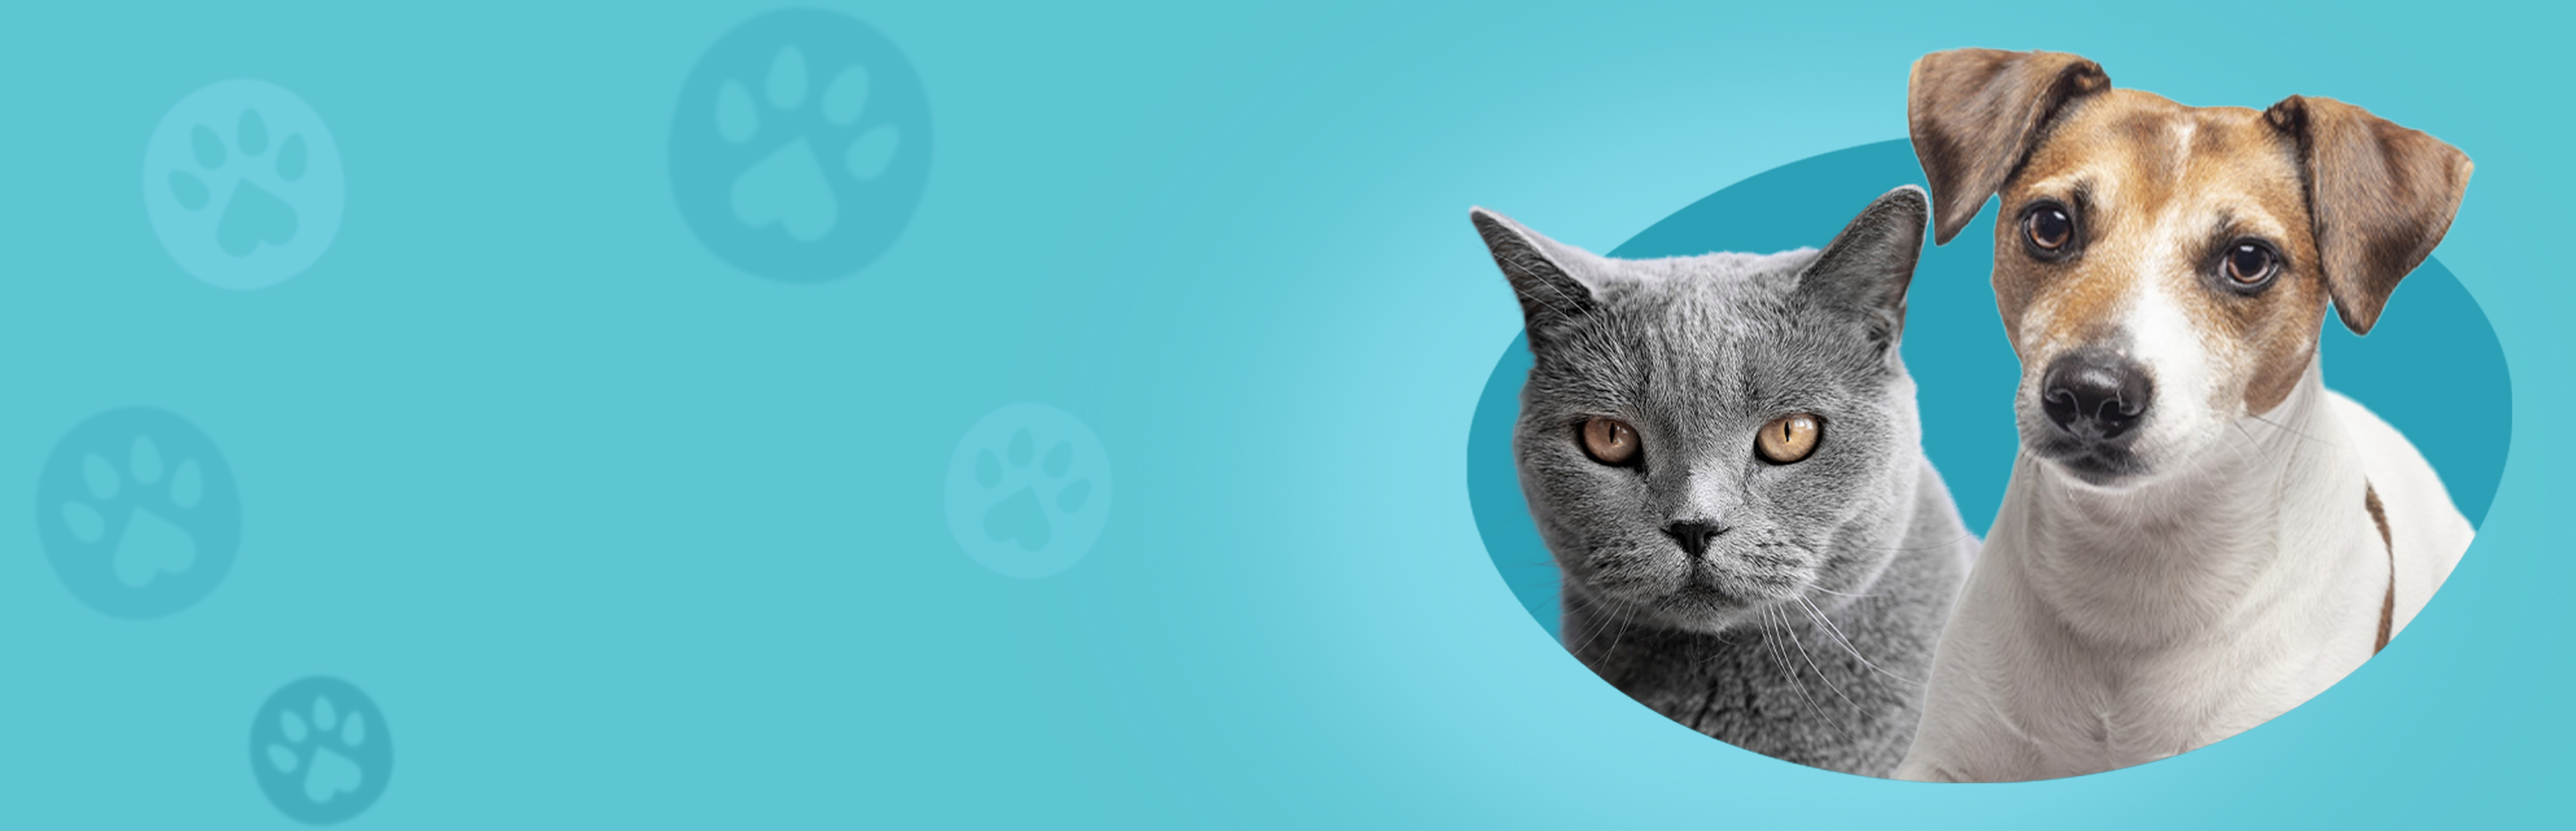
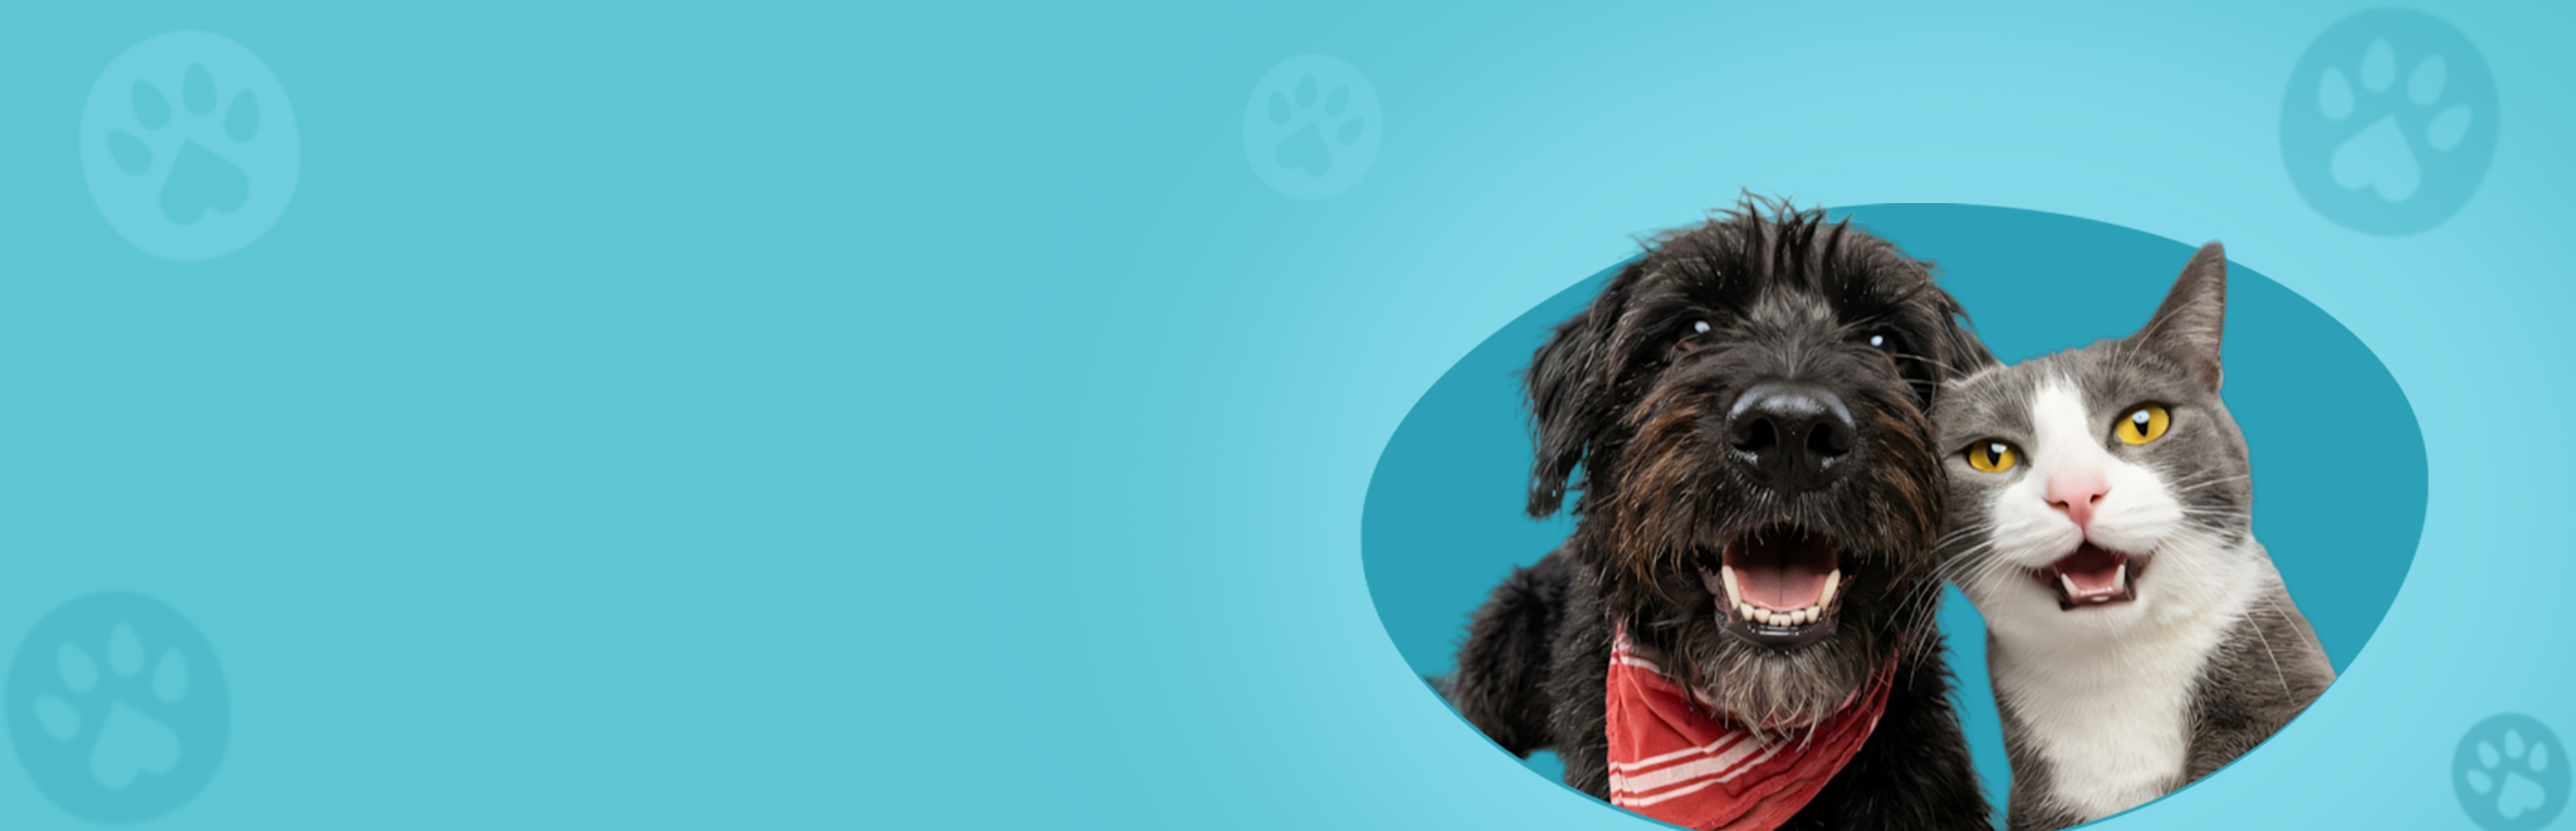
Mejora de sliders mas cambio de la tecnologia que los muestran

diff --git a/app/src/components/Slider/SliderPet.tsx b/app/src/components/Slider/SliderPet.tsx
@@ -1,6 +1,6 @@
 'use client'
 
-import React, { useEffect, useMemo, useState } from 'react'
+import React, { useEffect, useState } from 'react'
 import Link from 'next/link'
 
 type SliderSuffix =
@@ -15,8 +15,33 @@ type SliderSuffix =
   | 'uhd'
 
 type LegacySuffix = '243' | '720' | '1080' | '1920' | '2k' | '4k'
-
 type SlideId = 1 | 2 | 3
+
+type SlideContent = {
+  id: SlideId
+  subtitle: string
+  title: string
+}
+
+const AUTOPLAY_DELAY_MS = 7000
+
+const slides: SlideContent[] = [
+  {
+    id: 1,
+    subtitle: '¡Oferta! Hasta 50% de descuento',
+    title: 'La tienda perfecta para tu mascota',
+  },
+  {
+    id: 2,
+    subtitle: '¡Oferta! Hasta 50% de descuento',
+    title: 'Alimenta el apetito de tu mascota',
+  },
+  {
+    id: 3,
+    subtitle: '¡Oferta! Hasta 50% de descuento',
+    title: 'Alimenta el apetito de tu mascota',
+  },
+]
 
 const legacyFallbackBySuffix: Record<SliderSuffix, LegacySuffix[]> = {
   'mobile-xs': ['243', '720'],
@@ -42,19 +67,24 @@ const sourceOrder: Array<{ media?: string; suffix: SliderSuffix }> = [
   { suffix: 'mobile-xs' },
 ]
 
-const buildCandidateSources = (slide: SlideId, suffix: SliderSuffix) => {
-  return Array.from(
+const buildCandidateSources = (slide: SlideId, suffix: SliderSuffix) =>
+  Array.from(
     new Set([
       `/images/slider/slade${slide}-${suffix}.jpg`,
       ...legacyFallbackBySuffix[suffix].map((legacy) => `/images/slider/slade${slide}-${legacy}.jpg`),
     ]),
   )
-}
 
-const buildSourceSet = (slide: SlideId, suffix: SliderSuffix) => buildCandidateSources(slide, suffix).join(', ')
-
-const SliderImage = ({ alt, slide, priority }: { alt: string; slide: SlideId; priority?: boolean }) => {
-  const fallbackCandidates = useMemo(() => buildCandidateSources(slide, 'desktop'), [slide])
+const HeroPicture = ({
+  alt,
+  slide,
+  priority,
+}: {
+  alt: string
+  slide: SlideId
+  priority?: boolean
+}) => {
+  const fallbackCandidates = buildCandidateSources(slide, 'desktop')
   const [fallbackIndex, setFallbackIndex] = useState(0)
 
   useEffect(() => {
@@ -69,7 +99,7 @@ const SliderImage = ({ alt, slide, priority }: { alt: string; slide: SlideId; pr
         <source
           key={`${slide}-${suffix}`}
           media={media}
-          srcSet={buildSourceSet(slide, suffix)}
+          srcSet={`/images/slider/slade${slide}-${suffix}.jpg`}
         />
       ))}
       <img
@@ -81,42 +111,37 @@ const SliderImage = ({ alt, slide, priority }: { alt: string; slide: SlideId; pr
         onError={() => {
           setFallbackIndex((prev) => (prev >= fallbackCandidates.length - 1 ? prev : prev + 1))
         }}
-        className="absolute left-0 top-0 h-full w-full object-cover object-right sm:object-center"
+        className="absolute inset-0 h-full w-full object-contain object-center"
       />
     </picture>
   )
 }
 
-const SliderSlideContent = ({ slide, priority }: { slide: SlideId; priority?: boolean }) => {
-  const content = {
-    1: {
-      subtitle: '¡Oferta! Hasta 50% de descuento',
-      title: 'La tienda perfecta para tu mascota',
-    },
-    2: {
-      subtitle: '¡Oferta! Hasta 50% de descuento',
-      title: 'Alimenta el apetito de tu mascota',
-    },
-    3: {
-      subtitle: '¡Oferta! Hasta 50% de descuento',
-      title: 'Alimenta el apetito de tu mascota',
-    },
-  }[slide]
-
+const SliderSlideContent = ({
+  slide,
+  priority,
+}: {
+  slide: SlideContent
+  priority?: boolean
+}) => {
   return (
-    <div className="slider-item h-full w-full relative overflow-hidden">
-      <SliderImage alt={`bg-pet1-${slide}`} slide={slide} priority={priority} />
-      <div className="container w-full h-full flex items-center relative">
-        <div className="text-content sm:w-1/2 w-full max-w-[720px] text-white drop-shadow-[0_2px_10px_rgba(0,0,0,0.5)] px-4">
-          <div className="text-sub-display slider-text-sub normal-case">
-            {content.subtitle}
-          </div>
-          <div className="text-display slider-text-display md:mt-5 mt-2 normal-case">
-            {content.title}
-          </div>
+    <div className="slider-item relative h-full w-full overflow-hidden">
+      <HeroPicture
+        alt={`Slide principal ${slide.id} de ParaMascotasEC`}
+        slide={slide.id}
+        priority={priority}
+      />
+      <div className="container relative z-[1] flex h-full w-full items-center">
+        <div className="w-full max-w-[760px] px-4 text-white drop-shadow-[0_2px_18px_rgba(0,0,0,0.35)] sm:w-[58%]">
+          <p className="text-sub-display slider-text-sub normal-case">
+            {slide.subtitle}
+          </p>
+          <h1 className="text-display slider-text-display mt-2 normal-case md:mt-5">
+            {slide.title}
+          </h1>
           <Link
             href="/shop/breadcrumb1"
-            className="button-main md:mt-8 mt-3 normal-case bg-[var(--blue)] text-white hover:bg-[var(--bluesecondary)] hover:text-white"
+            className="button-main mt-4 inline-flex normal-case bg-[var(--blue)] text-white hover:bg-[var(--bluesecondary)] hover:text-white md:mt-8"
           >
             Compra ahora
           </Link>
@@ -127,51 +152,124 @@ const SliderSlideContent = ({ slide, priority }: { slide: SlideId; priority?: bo
 }
 
 const SliderPet = () => {
-  const [activeSlide, setActiveSlide] = useState(0)
+  const [selectedIndex, setSelectedIndex] = useState(0)
+  const [isPaused, setIsPaused] = useState(false)
+  const [prefersReducedMotion, setPrefersReducedMotion] = useState(false)
+  const [touchStartX, setTouchStartX] = useState<number | null>(null)
+  const [touchCurrentX, setTouchCurrentX] = useState<number | null>(null)
 
   useEffect(() => {
-    const timer = window.setInterval(() => {
-      setActiveSlide((prev) => (prev + 1) % 3)
-    }, 7000)
+    if (typeof window === 'undefined') return
 
-    return () => window.clearInterval(timer)
+    const mediaQuery = window.matchMedia('(prefers-reduced-motion: reduce)')
+    const syncPreference = () => setPrefersReducedMotion(mediaQuery.matches)
+
+    syncPreference()
+    mediaQuery.addEventListener('change', syncPreference)
+
+    return () => mediaQuery.removeEventListener('change', syncPreference)
   }, [])
 
+  const goToSlide = (index: number) => {
+    const normalizedIndex = (index + slides.length) % slides.length
+    setSelectedIndex(normalizedIndex)
+  }
+
+  const goToPrev = () => goToSlide(selectedIndex - 1)
+  const goToNext = () => goToSlide(selectedIndex + 1)
+
+  useEffect(() => {
+    if (isPaused || prefersReducedMotion) return
+
+    const autoplay = window.setInterval(() => {
+      if (document.hidden) return
+      setSelectedIndex((prev) => (prev + 1) % slides.length)
+    }, AUTOPLAY_DELAY_MS)
+
+    return () => window.clearInterval(autoplay)
+  }, [isPaused, prefersReducedMotion])
+
+  const handleTouchStart = (event: React.TouchEvent<HTMLDivElement>) => {
+    const point = event.touches[0]
+    setTouchStartX(point.clientX)
+    setTouchCurrentX(point.clientX)
+  }
+
+  const handleTouchMove = (event: React.TouchEvent<HTMLDivElement>) => {
+    if (touchStartX === null) return
+    setTouchCurrentX(event.touches[0].clientX)
+  }
+
+  const handleTouchEnd = () => {
+    if (touchStartX === null || touchCurrentX === null) {
+      setTouchStartX(null)
+      setTouchCurrentX(null)
+      return
+    }
+
+    const deltaX = touchStartX - touchCurrentX
+    const swipeThreshold = 48
+
+    if (deltaX > swipeThreshold) goToNext()
+    if (deltaX < -swipeThreshold) goToPrev()
+
+    setTouchStartX(null)
+    setTouchCurrentX(null)
+  }
+
   return (
-    <div className="slider-block style-one w-full md:pb-0 pb-0 overflow-hidden slider-height">
-      <div className="slider-main relative h-full w-full overflow-hidden">
+    <section
+      className="slider-block style-one pet-hero-height mt-2 w-full overflow-hidden md:mt-3"
+      aria-roledescription="carousel"
+      aria-label="Promociones principales"
+      onMouseEnter={() => setIsPaused(true)}
+      onMouseLeave={() => setIsPaused(false)}
+      onFocusCapture={() => setIsPaused(true)}
+      onBlurCapture={() => setIsPaused(false)}
+    >
+      <div className="slider-main relative h-full w-full">
         <div
-          className="flex h-full w-full transition-transform duration-700 ease-out"
-          style={{ transform: `translate3d(-${activeSlide * 100}%, 0, 0)` }}
+          className="h-full overflow-hidden"
+          onTouchStart={handleTouchStart}
+          onTouchMove={handleTouchMove}
+          onTouchEnd={handleTouchEnd}
         >
-          <div className="h-full w-full shrink-0">
-            <SliderSlideContent slide={1} priority />
-          </div>
-          <div className="h-full w-full shrink-0">
-            <SliderSlideContent slide={2} />
-          </div>
-          <div className="h-full w-full shrink-0">
-            <SliderSlideContent slide={3} />
+          <div
+            className="flex h-full transition-transform duration-500 ease-out will-change-transform touch-pan-y"
+            style={{ transform: `translate3d(-${selectedIndex * 100}%, 0, 0)` }}
+          >
+            {slides.map((slide, index) => (
+              <div
+                key={slide.id}
+                className="relative h-full min-w-0 flex-[0_0_100%]"
+                aria-hidden={selectedIndex !== index}
+              >
+                <SliderSlideContent slide={slide} priority={index === 0} />
+              </div>
+            ))}
           </div>
         </div>
 
-        <div className="pointer-events-none absolute inset-x-0 bottom-5 z-10 flex items-center justify-center gap-3">
-          {[0, 1, 2].map((index) => (
-            <button
-              key={index}
-              type="button"
-              aria-label={`Ir al slide ${index + 1}`}
-              onClick={() => setActiveSlide(index)}
-              className={`pointer-events-auto h-3.5 w-3.5 rounded-full border transition-all duration-300 ${
-                activeSlide === index
-                  ? 'border-black bg-black shadow-[0_0_0_3px_rgba(255,255,255,0.55)]'
-                  : 'border-black bg-white/70 hover:bg-white'
-              }`}
-            />
-          ))}
+        <div className="pointer-events-none absolute inset-x-0 bottom-4 z-10 flex items-center justify-center px-4 md:bottom-6 md:px-6">
+          <div className="pointer-events-auto mx-auto flex items-center justify-center gap-3 rounded-full bg-white/18 px-3 py-2 backdrop-blur-sm">
+            {slides.map((slide, index) => (
+              <button
+                key={slide.id}
+                type="button"
+                aria-label={`Ir al slide ${index + 1}`}
+                aria-pressed={selectedIndex === index}
+                onClick={() => goToSlide(index)}
+                className={`h-3 w-3 rounded-full border transition-all duration-300 ${
+                  selectedIndex === index
+                    ? 'scale-110 border-white bg-white shadow-[0_0_0_4px_rgba(255,255,255,0.2)]'
+                    : 'border-white/75 bg-white/45 hover:bg-white/75'
+                }`}
+              />
+            ))}
+          </div>
         </div>
       </div>
-    </div>
+    </section>
   )
 }
 

diff --git a/app/src/app/homepages/pet/page.tsx b/app/src/app/homepages/pet/page.tsx
@@ -10,7 +10,6 @@ import Banner2 from '@/components/Pet/Banner2'
 import FeatureProduct from '@/components/Pet/FeatureProduct'
 import Benefit from '@/components/Pet/Benefit'
 import Instagram from '@/components/Pet/Instagram'
-import ScrollToTopOnMount from '@/components/ScrollToTopOnMount'
 import Brand from '@/components/Pet/Brand'
 import Footer from '@/components/Footer/Footer'
 import ModalNewsletter from '@/components/Modal/ModalNewsletter'
@@ -22,7 +21,6 @@ export default async function HomePet() {
 
     return (
         <>
-            <ScrollToTopOnMount />
             <TopNavOne props="style-one bg-black" slogan='New customers save 10% with the code GET102222' />
             <div id="header" className='relative w-full style-pet'>
                 <MenuPet searchProducts={products} />

diff --git a/app/src/tenants/paramascotasec.com/Home.tsx b/app/src/tenants/paramascotasec.com/Home.tsx
@@ -3,7 +3,6 @@ import dynamic from 'next/dynamic'
 import MenuPet from '@/components/Header/Menu/MenuPet'
 import SliderPet from '@/components/Slider/SliderPet'
 import Footer from '@/components/Footer/Footer'
-import ScrollToTopOnMount from '@/components/ScrollToTopOnMount'
 import { ProductType } from '@/type/ProductType'
 
 const Collection = dynamic(() => import('@/components/Pet/Collection'))
@@ -21,7 +20,6 @@ const ParamascotasecHome = ({
 }) => {
   return (
     <>
-      <ScrollToTopOnMount />
       <div id="header" className="relative w-full style-pet">
         <MenuPet searchProducts={products} />
         <SliderPet />

diff --git a/app/src/styles/globals.scss b/app/src/styles/globals.scss
@@ -147,6 +147,10 @@ input[type="file"] {
   height: 180px;
 }
 
+.pet-hero-height {
+  height: clamp(320px, 37vw, 820px);
+}
+
 @media (min-width: 480px) { /* xs+ */
   .slider-height { height: 210px; }
 }
@@ -215,6 +219,10 @@ input[type="file"] {
 
 /* Cuando la altura del viewport es baja, reduce texto para que no invada la imagen */
 @media (max-height: 520px) {
+  .pet-hero-height {
+    height: clamp(260px, 70svh, 420px);
+  }
+
   .slider-text-display {
     font-size: clamp(22px, 4vh, 40px);
     line-height: clamp(28px, 4.6vh, 48px);

diff --git a/app/README.md b/app/README.md
@@ -24,9 +24,14 @@ npm run dev
 Desarrollo:
 
 ```bash
+cd /home/admincenter/contenedores/paramascostas-DB
+./scripts/deploy-development.sh
+
 cd /home/admincenter/contenedores/paramascotasec
 ./scripts/deploy-development.sh
 ```
+
+El frontend en Docker depende de que `paramascotasec-backend` y la base `paramascostas-DB` esten accesibles en la red `edge`.
 
 Produccion:
 
